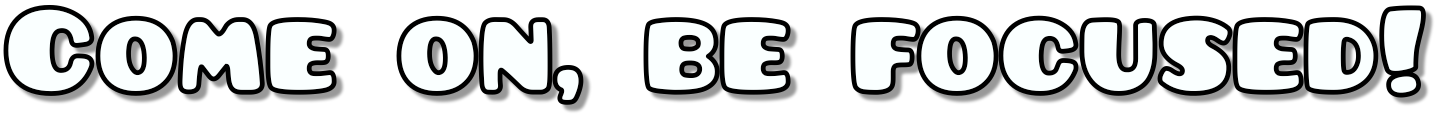
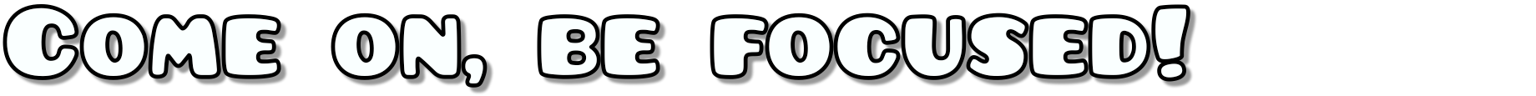
sdf

diff --git a/src/ScreenStates/Game.cpp b/src/ScreenStates/Game.cpp
@@ -23,7 +23,7 @@ Game::Game(Controller& controller, sf::Music& music)
 	m_background.setTexture(&m_resources.getMenuBackground(0));
 
 	//m_prompt.setSize({ m_resources.getPrompt(prompt).getSize().x * 0.7f , m_resources.getPrompt(prompt).getSize().y * 0.7f }); //adjust
-	m_prompt.setSize({ WINDOW_X / 6, WINDOW_Y / 6 });
+	m_prompt.setSize({ WINDOW_X / 20 * 16, WINDOW_Y / 20 * 1 });
 	m_prompt.setTexture(&m_resources.getPrompt(prompt));
 
 	m_pauseButton= std::make_unique<Button>(
@@ -105,7 +105,6 @@ void Game::draw(sf::RenderWindow& window, int r, int g, int b)
 	static int counter = 0;
 	static int axisY = m_player->getPosition().y - 220;
 
-	m_prompt.setPosition(m_player->getStartLocation().x - 140, m_player->getStartLocation().x - 300); //adjust
 	window.clear();
 	m_background.setFillColor(sf::Color(r, g, b));
 	window.draw(m_background);
@@ -159,8 +158,7 @@ void Game::draw(sf::RenderWindow& window, int r, int g, int b)
 
 	if (m_promptTime.asSeconds() < sf::seconds(3.0f).asSeconds())
 	{
-		m_prompt.setPosition(m_player->getStartLocation().x - 140, m_player->getStartLocation().x - 300); //adjust
-		m_prompt.setSize({ WINDOW_X / 6, WINDOW_Y / 6 });
+		m_prompt.setPosition(m_player->getStartLocation().x - 400, m_player->getStartLocation().x - 250);
 		window.draw(m_prompt);
 	}
 
